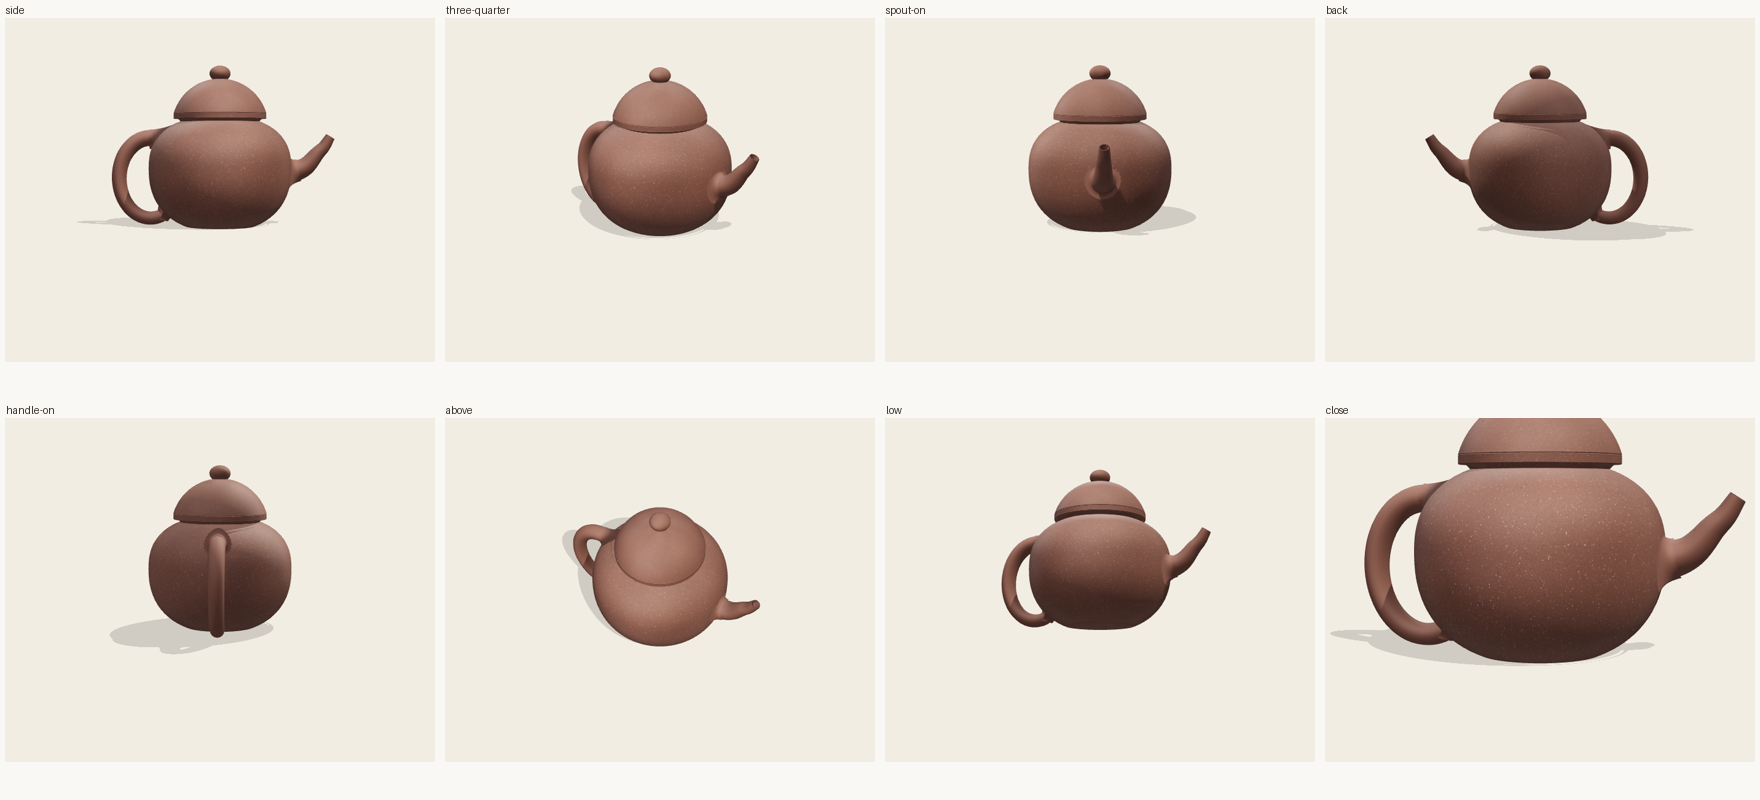
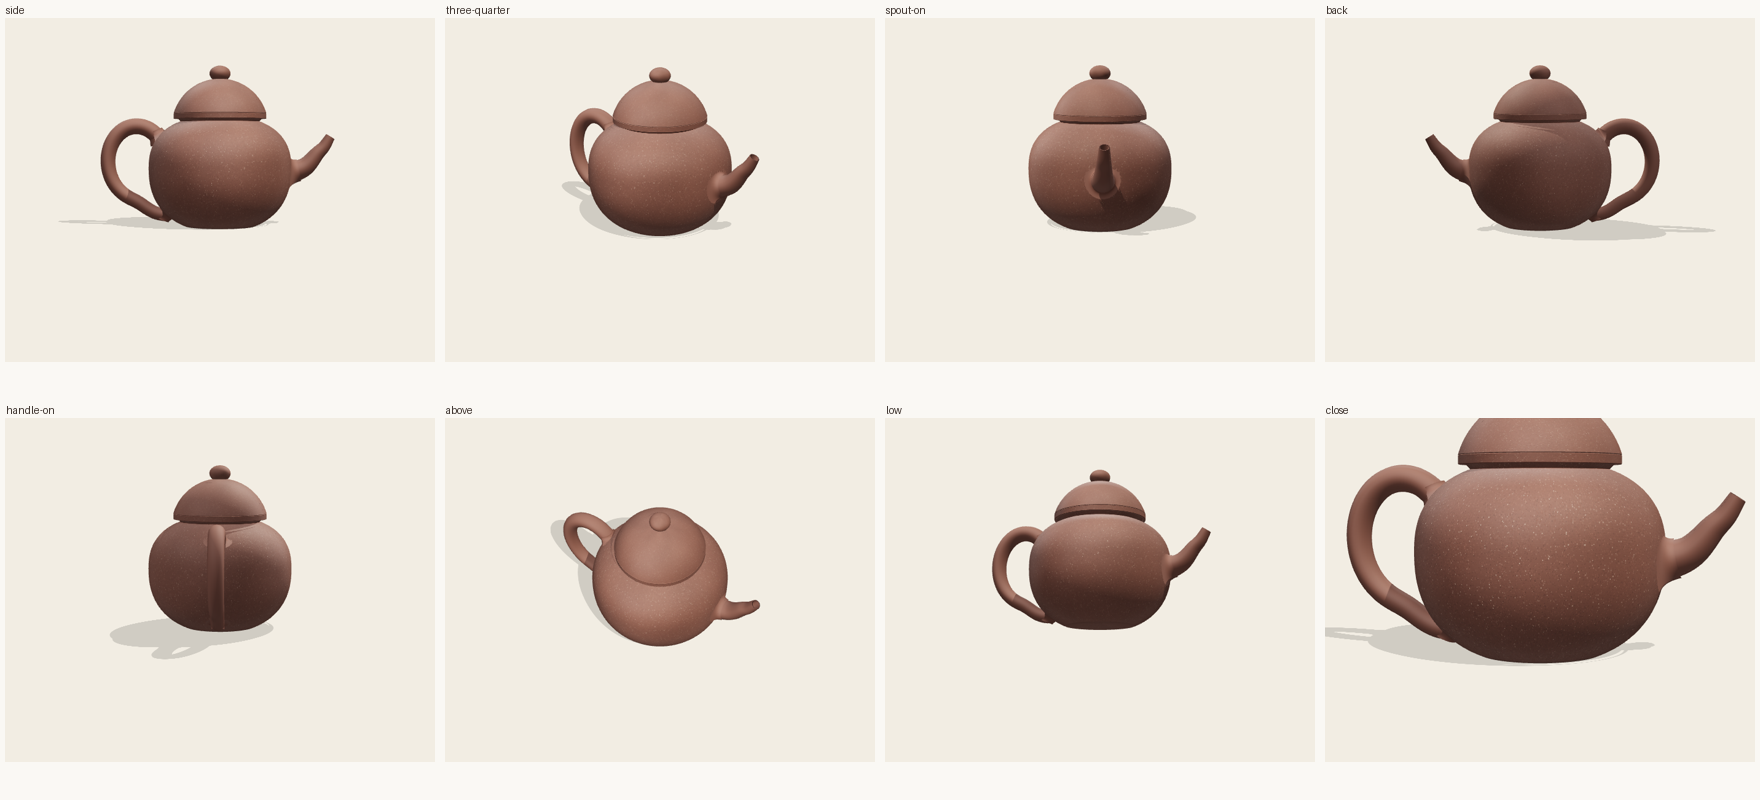
handles: teardrop ears by radius modulation, not by control points
掇球's ear turns hard leaving the shoulder, runs slack down the back and
tightens again at the belly. invertedEar builds a circle through the two roots
and an outer point, and a circle has one curvature everywhere, so it could not
make that shape.

Two earlier attempts threaded a spline through an added peak and tuck. Both
produced an angular arm with visible corners, for the same reason each time: a
spline through sparse, unevenly spaced anchors runs nearly straight between them
and turns abruptly at them. Adding anchors fights the symptom.

Leaving the circle alone and modulating its radius works instead:

    r(t) = radius * (1 + teardrop * sin(2*pi*t))

sin(2*pi*t) is exactly zero at both roots, so the ends still meet the body;
positive across the upper half, so the strap swells and rises off the shoulder;
negative across the lower, so it draws in under the belly. The modulation is
smooth at every t, so the loop cannot acquire a corner — the worst failure is a
wrong amount, never a broken shape. Swept four strengths and picked 0.36 against
the reference photographs.

teardrop defaults to 0, which is the plain circle. 西施 rendered before and
after: identical.

Eight-angle QC on 掇球; canon passes on all six teapots.

Claude-Session: https://claude.ai/code/session_01Au3NkrP4Zh9Vb2uEzJxxmj

diff --git a/src/components/handles.js b/src/components/handles.js
@@ -40,6 +40,12 @@ export const HANDLES = {
       loopY: { label: '环心高', min: 0.2, max: 0.9, step: 0.01, default: 0.52 },
       stretch: { label: '环高扁', min: 0.6, max: 1.8, step: 0.02, default: 1.0 },
       blend: { label: '润接', min: 0, max: 0.16, step: 0.005, default: 0.045 },
+      // A circle through three points has a single curvature everywhere, which
+      // is what 西施's ear wants. 掇球's is a teardrop: full where it leaves the
+      // shoulder, tighter where it tucks under the belly. See the note on the
+      // modulation below for why this is a radius function and not extra
+      // control points. 0 leaves the plain circle.
+      teardrop: { label: '梨形', min: 0, max: 0.50, step: 0.01, default: 0 },
     },
     build(p, prof, material) {
       const H = prof.height
@@ -68,13 +74,27 @@ export const HANDLES = {
       // a circle through the three points is the base; `stretch` makes it an
       // oval, since a real 环把 is taller than it is wide
       const k = p.stretch ?? 1
+      // Teardrop by *radius modulation* rather than by adding control points.
+      // Threading a spline through a peak and a tuck gives a curve with
+      // near-straight runs between the anchors and abrupt turns at them — an
+      // angular arm, not an ear. Multiplying the circle's radius by a smooth
+      // function instead keeps curvature continuous by construction, so no
+      // corner is possible at any parameter value.
+      //
+      // sin(2*pi*t) is the right function: it is exactly zero at both roots
+      // (so the ends still meet the body), positive across the upper half
+      // (the strap swells and rises as it leaves the shoulder) and negative
+      // across the lower (it draws in as it tucks under the belly).
+      const drop = p.teardrop ?? 0
       const pts = []
-      const N = 64
+      const N = 96
       for (let i = 0; i <= N; i++) {
-        const a = a0 + delta * (i / N)
+        const t = i / N
+        const a = a0 + delta * t
+        const r = radius * (1 + drop * Math.sin(2 * Math.PI * t))
         pts.push(new THREE.Vector3(
-          centre.x + radius * Math.cos(a),
-          centre.y + radius * Math.sin(a) * k,
+          centre.x + r * Math.cos(a),
+          centre.y + r * Math.sin(a) * k,
           0,
         ))
       }

diff --git a/public/refs/index.html b/public/refs/index.html
@@ -33,6 +33,9 @@
 
 <figure><figcaption>掇球 — part by part against a reference: this is the view that shows what is still wrong</figcaption>
 <a href="part_compare.png"><img src="part_compare.png" alt=""></a></figure>
+
+<figure><figcaption>掇球 — the teardrop handle at four strengths; 0 is the plain circle</figcaption>
+<a href="td_sweep.png"><img src="td_sweep.png" alt=""></a></figure>
 <figure><figcaption>掇球 — the collar band close up, after the staircase fix</figcaption>
 <a href="neck_after.png"><img src="neck_after.png" alt=""></a></figure>
 

diff --git a/README.md b/README.md
@@ -180,8 +180,25 @@ Families so far:
 |---|---|---|
 | 石瓢 | `cone` | a cone with the tip cut off: widest at the foot, flank never widening upward, straight within 3%; flat lid, bridge knob, straight spout, three feet |
 | 潘壶 | `pear` | 口小肚大 with an **inflection** neither other family can make: convex round the belly, concave as it draws in to the neck. Belly in the middle third, foot narrower than the belly, a **弯嘴** curved spout, 环把 ring handle, 圆珠钮, and a flat base standing on a **底圈** foot ring. (The seal belongs on the lid rim — a decoration rule, recorded but not checkable geometrically.) |
-| 掇球 | `superellipse` + `ballCap` | 掇 means *to stack*: body, lid and knob are three balls piled on one axis, each smaller than the one below. The identity is the proportions between them — the whole pot fits a circle (盖顶至底 ≈ 身径), the mouth is the golden part of the body (E/E2 = 0.618), the lid is a true spherical cap springing from inside a narrow brim, hanging a **skirt** down over the body's projecting rim collar (唇) — 压盖 means the lid presses over the mouth, and that collar-and-skirt pair is what separates ball 1 from ball 2. A **一弯嘴** whose last third turns up so the lip faces the sky, an ordinary **耳形环把** (thick at the shoulder, tapering down — *not* 西施's 倒把), and a 圈足 |
+| 掇球 | `superellipse` + `ballCap` | 掇 means *to stack*: body, lid and knob are three balls piled on one axis, each smaller than the one below. The identity is the proportions between them — the whole pot fits a circle (盖顶至底 ≈ 身径), the mouth is the golden part of the body (E/E2 = 0.618), the lid is a true spherical cap springing from inside a narrow brim, hanging a **skirt** down over the body's projecting rim collar (唇) — 压盖 means the lid presses over the mouth, and that collar-and-skirt pair is what separates ball 1 from ball 2. A **一弯嘴** whose last third turns up so the lip faces the sky, an ordinary **耳形环把** — a *teardrop*, thick at the shoulder, tapering down — *not* 西施's 倒把, and a 圈足 |
 | 西施 | `superellipse` | fuller than an ellipse and asymmetric top to bottom; widest near mid-height, wider than tall, no straight run anywhere in the flank; a wide mouth closed by a **截盖** lid that runs up the body's own curve until the ball is complete (a flat-topped lid reads as the wrong family), a bead knob on the neck it converges to, a **短流略粗** spout, a fully-round **倒耳把** thick at the shoulder and tapering to the belly, flat footless base |
+
+**Teardrops by modulation, not by control points.** A loop through two roots
+and an outer point is a circle, and a circle has one curvature everywhere —
+right for 西施's ear, wrong for 掇球's, which turns hard leaving the shoulder,
+runs slack down the back and tightens again at the belly. The obvious fix is to
+thread a spline through a peak and a tuck; it fails, twice, because a spline
+through sparse anchors gives near-straight runs between them and abrupt turns at
+them — an angular arm, not an ear. What works is leaving the circle alone and
+multiplying its *radius* by a smooth function of the arc parameter:
+
+    r(t) = radius * (1 + teardrop * sin(2*pi*t))
+
+zero at both roots so the ends still meet the body, positive across the upper
+half, negative across the lower. Because the modulation is smooth everywhere,
+the loop cannot acquire a corner at any parameter value — the failure mode is a
+wrong amount, never a broken shape. `teardrop: 0` is the plain circle, so 西施
+is untouched.
 
 掇球 is where the sources and the objects disagreed. The literature calls the
 寿珍 lid 明显的半球状 — "a clear hemisphere". Measured off two near-level
